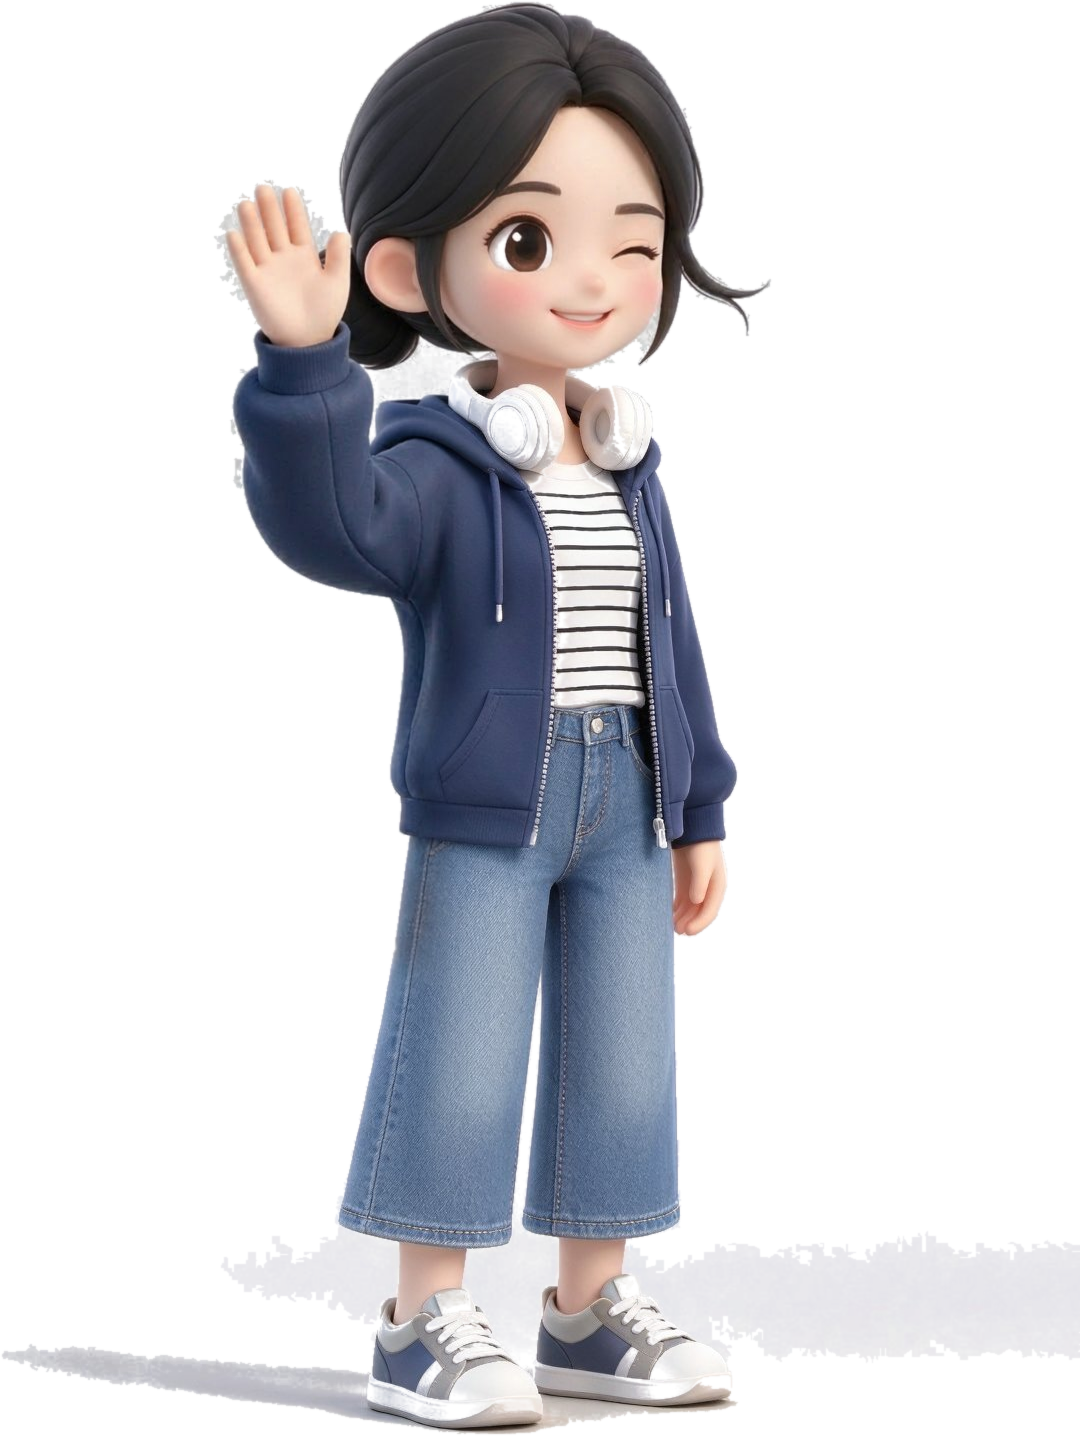
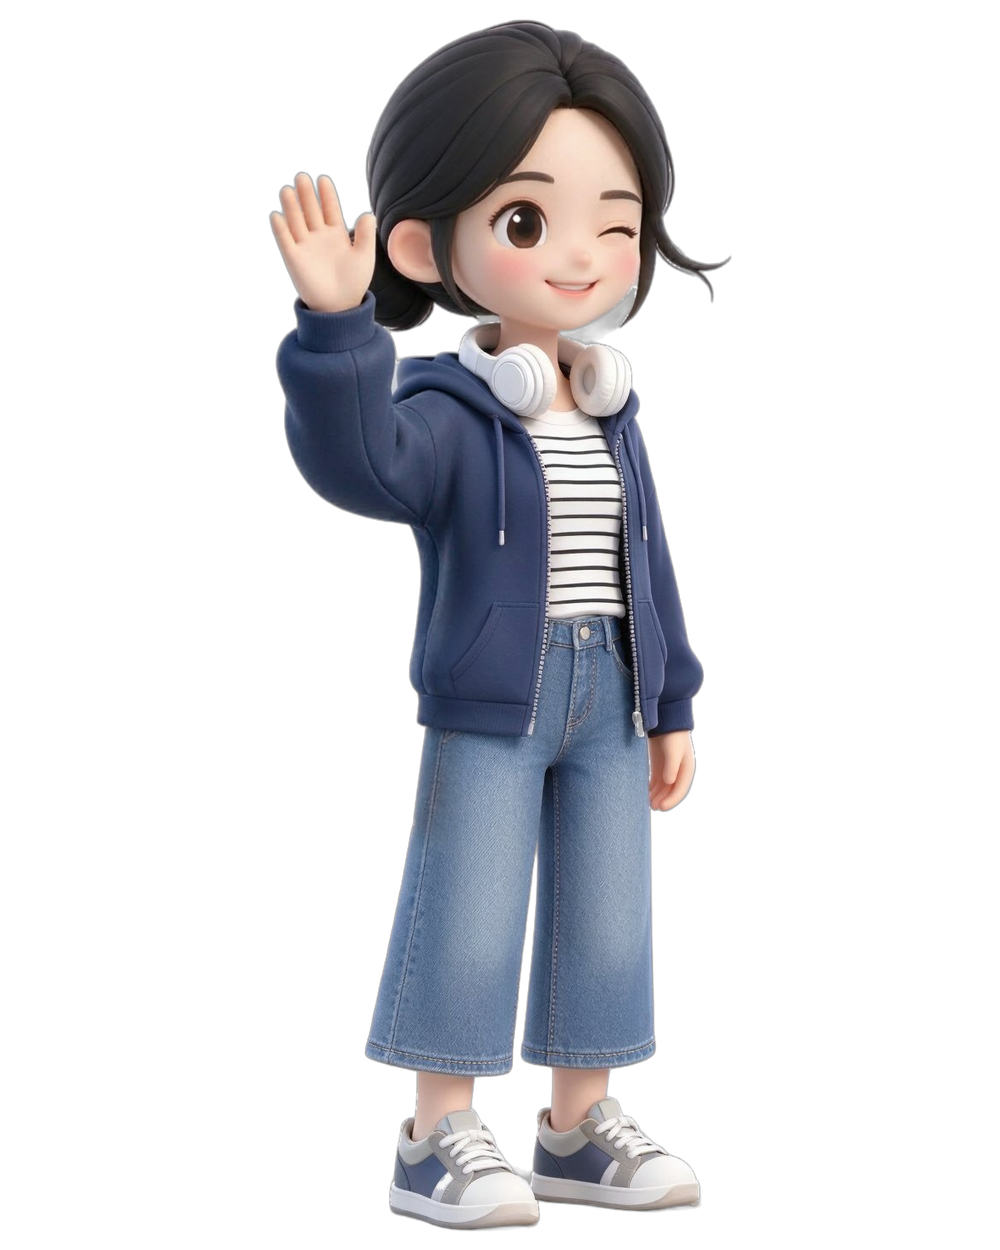
样式：正文底色改低饱和浅粉，移除动态 Q 版形象，静态人物融入页面底色

Changed region(s): [[0.0, 0.0, 1.0, 0.9984]]

diff --git a/portfolio-source/src/index.css b/portfolio-source/src/index.css
@@ -3,11 +3,11 @@
    奶油杏底 × 长春花蓝 × 落日橙 × 霞粉，大型柔焦光晕 + 深蓝剪影
    ========================================================= */
 :root {
-  /* 底色：暖调浅色（内容区暖米白；头图区另用蓝调极光） */
-  --paper: #f8f1ef;
-  --paper-2: #f2e8e6;
-  --surface: #fefbfa;
-  --surface-2: #f9efed;
+  /* 底色：明亮柔和的浅粉（低饱和）；头图区仍用蓝调极光，保持原样 */
+  --paper: #fdf0f3;
+  --paper-2: #f8e5ea;
+  --surface: #fff8fa;
+  --surface-2: #fcedf1;
 
   /* 墨色：剪影深蓝（呼应画面中的人物剪影） */
   --ink: #1e2a5e;
@@ -69,10 +69,10 @@ body::before {
   z-index: 0;
   pointer-events: none;
   background:
-    radial-gradient(26% 32% at 22% 26%, rgba(249, 158, 74, 0.1), transparent 70%),
-    radial-gradient(24% 30% at 78% 16%, rgba(247, 165, 156, 0.09), transparent 72%),
-    radial-gradient(30% 36% at 72% 80%, rgba(109, 130, 201, 0.12), transparent 74%),
-    radial-gradient(20% 26% at 16% 80%, rgba(255, 184, 77, 0.1), transparent 72%);
+    radial-gradient(26% 32% at 22% 26%, rgba(247, 168, 190, 0.13), transparent 70%),
+    radial-gradient(24% 30% at 78% 16%, rgba(255, 193, 211, 0.12), transparent 72%),
+    radial-gradient(30% 36% at 72% 80%, rgba(226, 178, 205, 0.1), transparent 74%),
+    radial-gradient(20% 26% at 16% 80%, rgba(255, 205, 220, 0.11), transparent 72%);
   filter: blur(34px);
   animation: auraDrift 44s ease-in-out infinite alternate;
 }
@@ -164,7 +164,7 @@ mark.hl {
   border-bottom: 1px solid transparent;
 }
 .nav.scrolled {
-  background: rgba(249, 236, 221, 0.78);
+  background: rgba(255, 246, 250, 0.82);
   backdrop-filter: blur(16px) saturate(1.25);
   border-bottom-color: var(--line);
 }
@@ -245,7 +245,7 @@ mark.hl {
 .hero-media .aurora-container { position: absolute; inset: 0; z-index: 1; }
 .hero-scrim {
   position: absolute; inset: 0; z-index: 2;
-  background: linear-gradient(180deg, rgba(248, 243, 234, 0.32) 0%, rgba(248, 243, 234, 0.02) 34%, rgba(248, 243, 234, 0.06) 55%, rgba(248, 243, 234, 0.42) 82%, rgba(248, 243, 234, 0.92) 100%);
+  background: linear-gradient(180deg, rgba(253, 240, 243, 0.32) 0%, rgba(253, 240, 243, 0.02) 34%, rgba(253, 240, 243, 0.06) 55%, rgba(253, 240, 243, 0.42) 82%, rgba(253, 240, 243, 0.92) 100%);
 }
 .hero-content { position: relative; z-index: 3; width: 100%; padding-bottom: clamp(60px, 8vw, 110px); }
 .hero-eyebrow {
@@ -285,12 +285,12 @@ mark.hl {
   display: inline-flex; align-items: center; gap: 8px;
   padding: 15px 26px; border-radius: 999px;
   border: 1px solid var(--line-strong);
-  background: rgba(255, 252, 247, 0.35);
+  background: rgba(255, 247, 250, 0.35);
   backdrop-filter: blur(6px);
   font-size: 17px; color: var(--ink-2);
   transition: border-color 0.3s var(--ease), color 0.3s var(--ease), background 0.3s var(--ease);
 }
-.btn-ghost:hover { border-color: var(--ink); color: var(--ink); background: rgba(255, 252, 247, 0.7); }
+.btn-ghost:hover { border-color: var(--ink); color: var(--ink); background: rgba(255, 247, 250, 0.7); }
 .hero-meta {
   position: absolute; right: var(--gutter); bottom: clamp(60px, 8vw, 110px);
   z-index: 2; text-align: right; font-family: var(--mono);
@@ -316,7 +316,7 @@ mark.hl {
 .search-wrap.is-nav .search-box { width: min(300px, 22vw); }
 .search-box {
   display: flex; align-items: center; gap: 10px;
-  background: rgba(255, 252, 247, 0.85);
+  background: rgba(255, 247, 250, 0.85);
   border: 1px solid var(--line-strong);
   border-radius: 999px;
   padding: 12px 18px;
@@ -336,7 +336,7 @@ mark.hl {
 }
 .search-results {
   position: absolute; top: calc(100% + 12px); left: 0; right: 0;
-  background: rgba(255, 252, 247, 0.97);
+  background: rgba(255, 247, 250, 0.97);
   border: 1px solid var(--line);
   border-radius: 16px;
   box-shadow: var(--shadow-md);
@@ -377,32 +377,31 @@ mark.hl {
   gap: clamp(40px, 5vw, 90px);
   align-items: start;
 }
+/* 个人信息 · 静态 Q 版形象：透明底，直接融进页面浅粉底色 */
 .portrait {
   position: relative;
-  border-radius: 26px;
-  overflow: hidden;
   aspect-ratio: 4 / 5;
-  background:
-    radial-gradient(52% 46% at 62% 36%, rgba(255, 178, 94, 0.85), transparent 72%),
-    radial-gradient(70% 66% at 28% 78%, rgba(109, 130, 201, 0.9), transparent 76%),
-    linear-gradient(160deg, #f5e0ca, #8296cf);
-  box-shadow: var(--shadow-md);
+  background: none;
+  box-shadow: none;
+  border-radius: 0;
+  overflow: visible;
 }
-.portrait::after {
-  content: '';
-  position: absolute; inset: 0; z-index: 1; pointer-events: none;
-  box-shadow: inset 0 0 0 1px rgba(255, 255, 255, 0.4), inset 0 -60px 90px -40px rgba(30, 42, 94, 0.35);
-}
+.portrait::after { display: none; }
 .portrait .ph-label {
   position: absolute; left: 22px; bottom: 20px; right: 22px; z-index: 2;
   font-family: var(--mono); font-size: 13.5px; letter-spacing: 0.12em; color: var(--ink);
-  background: rgba(255, 252, 247, 0.82); padding: 8px 12px; border-radius: 10px; backdrop-filter: blur(6px);
+  background: rgba(255, 247, 250, 0.82); padding: 8px 12px; border-radius: 10px; backdrop-filter: blur(6px);
 }
 .portrait .ph-initial {
   position: absolute; inset: 0; display: flex; align-items: center; justify-content: center;
   font-family: var(--serif); font-weight: 700; font-size: clamp(134.5px, 20vw, 246.5px); color: rgba(255, 255, 255, 0.35);
 }
-.portrait img { position: absolute; inset: 0; width: 100%; height: 100%; object-fit: cover; display: block; }
+.portrait img {
+  position: absolute; inset: 0;
+  width: 100%; height: 100%;
+  object-fit: contain; object-position: center bottom;
+  display: block;
+}
 .about-bio .lead {
   font-family: var(--serif);
   font-size: clamp(22.5px, 2.5vw, 33.5px);
@@ -425,7 +424,7 @@ mark.hl {
   gap: 1px; background: var(--line);
   border: 1px solid var(--line); border-radius: 18px; overflow: hidden;
 }
-.fact { background: rgba(255, 252, 247, 0.82); padding: 18px 22px; backdrop-filter: blur(6px); }
+.fact { background: rgba(255, 247, 250, 0.82); padding: 18px 22px; backdrop-filter: blur(6px); }
 .fact .k { font-family: var(--mono); font-size: 13.5px; letter-spacing: 0.16em; color: var(--ink-faint); text-transform: uppercase; }
 .fact .v { margin-top: 6px; font-size: 18px; color: var(--ink); font-weight: 500; }
 .fact a.v:hover { color: var(--sage); }
@@ -454,7 +453,7 @@ mark.hl {
   grid-template-columns: minmax(0, 3fr) minmax(0, 5fr);
   gap: clamp(28px, 3vw, 56px);
   align-items: stretch;
-  background: rgba(255, 252, 247, 0.88);
+  background: rgba(255, 247, 250, 0.88);
   border: 1px solid var(--line);
   border-radius: 28px;
   overflow: hidden;
@@ -477,7 +476,7 @@ mark.hl {
 .exp-card:hover .exp-media .ph { transform: scale(1.04); }
 .exp-media .ph-label {
   font-family: var(--mono); font-size: 14.5px; letter-spacing: 0.08em; color: var(--ink);
-  background: rgba(255, 252, 247, 0.85); padding: 9px 14px; border-radius: 10px; backdrop-filter: blur(6px);
+  background: rgba(255, 247, 250, 0.85); padding: 9px 14px; border-radius: 10px; backdrop-filter: blur(6px);
 }
 .exp-media .ph-badge {
   position: absolute; top: 22px; left: 22px;
@@ -509,7 +508,7 @@ mark.hl {
 /* 项目区使用更紧凑的卡片网格 */
 .proj-grid { display: grid; grid-template-columns: 1fr; gap: clamp(28px, 3vw, 44px); }
 .proj-card {
-  background: rgba(255, 252, 247, 0.88); border: 1px solid var(--line); border-radius: 26px; overflow: hidden;
+  background: rgba(255, 247, 250, 0.88); border: 1px solid var(--line); border-radius: 26px; overflow: hidden;
   display: grid; grid-template-columns: minmax(0, 3fr) minmax(0, 5fr); align-items: stretch;
   backdrop-filter: blur(10px);
   transition: transform 0.5s var(--ease), box-shadow 0.5s var(--ease);
@@ -523,11 +522,11 @@ mark.hl {
 .proj-card:hover .proj-media img { transform: scale(1.05); }
 .proj-media .ph { position: absolute; inset: 0; display: flex; align-items: flex-end; padding: 22px; transition: transform 0.7s var(--ease); }
 .proj-card:hover .proj-media .ph { transform: scale(1.05); }
-.proj-media .ph-label { font-family: var(--mono); font-size: 14px; letter-spacing: 0.06em; color: var(--ink); background: rgba(255, 252, 247, 0.85); padding: 8px 13px; border-radius: 9px; backdrop-filter: blur(6px); }
+.proj-media .ph-label { font-family: var(--mono); font-size: 14px; letter-spacing: 0.06em; color: var(--ink); background: rgba(255, 247, 250, 0.85); padding: 8px 13px; border-radius: 9px; backdrop-filter: blur(6px); }
 .proj-badge {
   position: absolute; left: 22px; bottom: 20px;
   font-family: var(--mono); font-size: 14px; letter-spacing: 0.06em;
-  color: var(--ink); background: rgba(255, 252, 247, 0.88);
+  color: var(--ink); background: rgba(255, 247, 250, 0.88);
   padding: 8px 13px; border-radius: 9px; backdrop-filter: blur(6px);
 }
 .proj-body { padding: clamp(24px, 2.4vw, 34px); display: flex; flex-direction: column; flex: 1; }
@@ -539,7 +538,7 @@ mark.hl {
    校园经历
    ========================================================= */
 .campus-card {
-  background: rgba(255, 252, 247, 0.75);
+  background: rgba(255, 247, 250, 0.75);
   border: 1px solid var(--line); border-radius: 26px; padding: clamp(30px, 3.4vw, 52px);
   display: grid; grid-template-columns: 0.8fr 1.2fr; gap: clamp(30px, 4vw, 64px); align-items: start;
   backdrop-filter: blur(8px);
@@ -554,7 +553,7 @@ mark.hl {
 /* 文创作品集卡 */
 .wc-card {
   margin-top: clamp(28px, 3vw, 44px);
-  background: rgba(255, 252, 247, 0.88);
+  background: rgba(255, 247, 250, 0.88);
   border: 1px solid var(--line); border-radius: 28px;
   padding: clamp(30px, 3.4vw, 56px);
   box-shadow: var(--shadow-sm);
@@ -602,7 +601,7 @@ mark.hl {
 .games-list { display: flex; flex-direction: column; gap: 14px; margin-top: 22px; }
 .game-row {
   display: flex; align-items: center; justify-content: space-between; gap: 16px; padding: 16px 20px;
-  background: rgba(255, 252, 247, 0.85); border: 1px solid var(--line); border-radius: 16px;
+  background: rgba(255, 247, 250, 0.85); border: 1px solid var(--line); border-radius: 16px;
   transition: border-color 0.3s var(--ease), transform 0.3s var(--ease), box-shadow 0.3s var(--ease);
 }
 .game-row:hover { border-color: var(--sage); transform: translateX(4px); box-shadow: var(--glow-blue); }
@@ -697,7 +696,7 @@ mark.hl {
   display: inline-flex; align-items: center; gap: 8px;
   font-family: var(--mono); font-size: 14.5px; letter-spacing: 0.08em;
   color: var(--ink-2); text-decoration: none; padding: 8px 14px; border: 1px solid var(--line);
-  border-radius: 999px; background: rgba(255, 252, 247, 0.85); transition: border-color 0.3s var(--ease), color 0.3s var(--ease);
+  border-radius: 999px; background: rgba(255, 247, 250, 0.85); transition: border-color 0.3s var(--ease), color 0.3s var(--ease);
 }
 .wd-back:hover { border-color: var(--sage); color: var(--ink); }
 .wd-bar-title { font-family: var(--serif); font-weight: 600; font-size: 17px; color: var(--ink-2); white-space: nowrap; overflow: hidden; text-overflow: ellipsis; }
@@ -736,14 +735,14 @@ mark.hl {
 .wd-page figcaption {
   position: absolute; right: 12px; bottom: 12px;
   font-family: var(--mono); font-size: 13.5px; letter-spacing: 0.08em; color: var(--ink);
-  background: rgba(255, 252, 247, 0.88); padding: 4px 10px; border-radius: 8px; backdrop-filter: blur(6px);
+  background: rgba(255, 247, 250, 0.88); padding: 4px 10px; border-radius: 8px; backdrop-filter: blur(6px);
 }
 .wd-tip { margin-top: 14px; font-family: var(--mono); font-size: 14px; color: var(--ink-soft); letter-spacing: 0.04em; }
 .wd-tip a { color: var(--ink-2); }
 
 .wd-ppt-stage { display: flex; align-items: stretch; gap: 18px; }
 .wd-ppt-nav {
-  flex: 0 0 52px; border: 1px solid var(--line); background: rgba(255, 252, 247, 0.85); border-radius: 16px;
+  flex: 0 0 52px; border: 1px solid var(--line); background: rgba(255, 247, 250, 0.85); border-radius: 16px;
   font-size: 22.5px; color: var(--ink-2); cursor: pointer; transition: border-color 0.3s var(--ease), color 0.3s var(--ease);
 }
 .wd-ppt-nav:hover:not(:disabled) { border-color: var(--sage); color: var(--ink); }
@@ -784,7 +783,7 @@ mark.hl {
 .wd-fig figcaption {
   position: absolute; left: 10px; bottom: 10px;
   font-family: var(--mono); font-size: 13px; letter-spacing: 0.08em; color: var(--ink);
-  background: rgba(255, 252, 247, 0.88); padding: 5px 10px; border-radius: 8px; backdrop-filter: blur(6px);
+  background: rgba(255, 247, 250, 0.88); padding: 5px 10px; border-radius: 8px; backdrop-filter: blur(6px);
 }
 .wd-lightbox {
   position: fixed; inset: 0; z-index: 100; background: rgba(23, 32, 74, 0.9);
@@ -884,7 +883,7 @@ mark.hl {
 .rp-grid { display: grid; grid-template-columns: repeat(2, minmax(0, 1fr)); gap: clamp(20px, 2.4vw, 32px); }
 .rp-card {
   display: flex; flex-direction: column;
-  background: rgba(255, 252, 247, 0.88); border: 1px solid var(--line);
+  background: rgba(255, 247, 250, 0.88); border: 1px solid var(--line);
   border-radius: 22px; overflow: hidden;
   backdrop-filter: blur(10px);
   transition: border-color 0.35s var(--ease), transform 0.35s var(--ease), box-shadow 0.35s var(--ease);
@@ -908,7 +907,7 @@ mark.hl {
   position: absolute; top: 14px; left: 14px; z-index: 2;
   font-family: var(--mono); font-size: 12.5px; letter-spacing: 0.18em; text-transform: uppercase;
   padding: 6px 11px; border-radius: 999px;
-  background: rgba(255, 252, 247, 0.92); color: var(--ink-2);
+  background: rgba(255, 247, 250, 0.92); color: var(--ink-2);
   border: 1px solid rgba(255, 255, 255, 0.6);
 }
 .rp-cover-mask {
@@ -977,7 +976,7 @@ mark.hl {
 .rp-aside-dl { margin-top: 20px; display: inline-flex; font-size: 14px !important; }
 
 .rp-doc {
-  background: rgba(255, 252, 247, 0.94); border: 1px solid var(--line);
+  background: rgba(255, 247, 250, 0.94); border: 1px solid var(--line);
   border-radius: 22px; padding: clamp(26px, 3.6vw, 56px);
   box-shadow: var(--shadow-sm);
 }
@@ -1108,41 +1107,3 @@ mark.hl {
 .aigc-stats i { display: block; font-style: normal; margin-top: 4px; font-size: 14.5px; color: var(--ink-soft); }
 .aigc-go { margin-top: 10px; font-size: 16px; font-weight: 500; border-bottom: 1.5px solid var(--ink); padding-bottom: 3px; }
 @media (max-width: 900px) { .aigc-panel { min-height: 0; } }
-
-
-/* ===== 可交互 Q 版形象（透明人物 · 帧动画，直接站在网页里）===== */
-.qchar.portrait {
-  background: none;
-  box-shadow: none;
-  border-radius: 0;
-  overflow: visible;
-  cursor: pointer;
-  outline: none;
-}
-.qchar.portrait::after { display: none; }
-.qchar .q-stack { position: absolute; inset: 0; transform-origin: 50% 92%; }
-.qchar .q-frame {
-  position: absolute; inset: 0; width: 100%; height: 100%;
-  object-fit: contain; object-position: center bottom;
-  display: block; opacity: 0; pointer-events: none;
-}
-.qchar .q-frame:first-child { opacity: 1; }
-.qchar .q-shadow {
-  position: absolute; left: 50%; bottom: 3%; transform: translateX(-50%);
-  width: 42%; height: 3%; border-radius: 50%; pointer-events: none;
-  background: radial-gradient(ellipse at center, rgba(38, 50, 88, 0.22), rgba(38, 50, 88, 0) 72%);
-  filter: blur(5px);
-}
-.qchar.is-greeting .q-stack { animation: qbob 2s ease-in-out infinite; }
-@keyframes qbob {
-  0%, 100% { transform: translateY(0) rotate(0deg); }
-  50% { transform: translateY(-6px) rotate(0.8deg); }
-}
-@media (prefers-reduced-motion: reduce) {
-  .qchar.is-greeting .q-stack { animation: none; }
-}
-
-
-/* 静态 Q 版形象：透明背景，直接融入页面底色 */
-.portrait { position: relative; }
-.portrait img { width: 100%; height: auto; display: block; object-fit: contain; }

diff --git a/portfolio-source/src/components/About.jsx b/portfolio-source/src/components/About.jsx
@@ -16,7 +16,6 @@ export default function About({ query }) {
         </div>
 
         <div className="about-grid">
-          {/* 可交互 Q 版形象（透明背景，悬停挥手 wink 打招呼） */}
           {/* 静态 Q 版形象：透明背景，直接融入页面底色 */}
           <div className="portrait">
             <img src={portraitImg} alt={`${profile.name} 个人形象`} />
